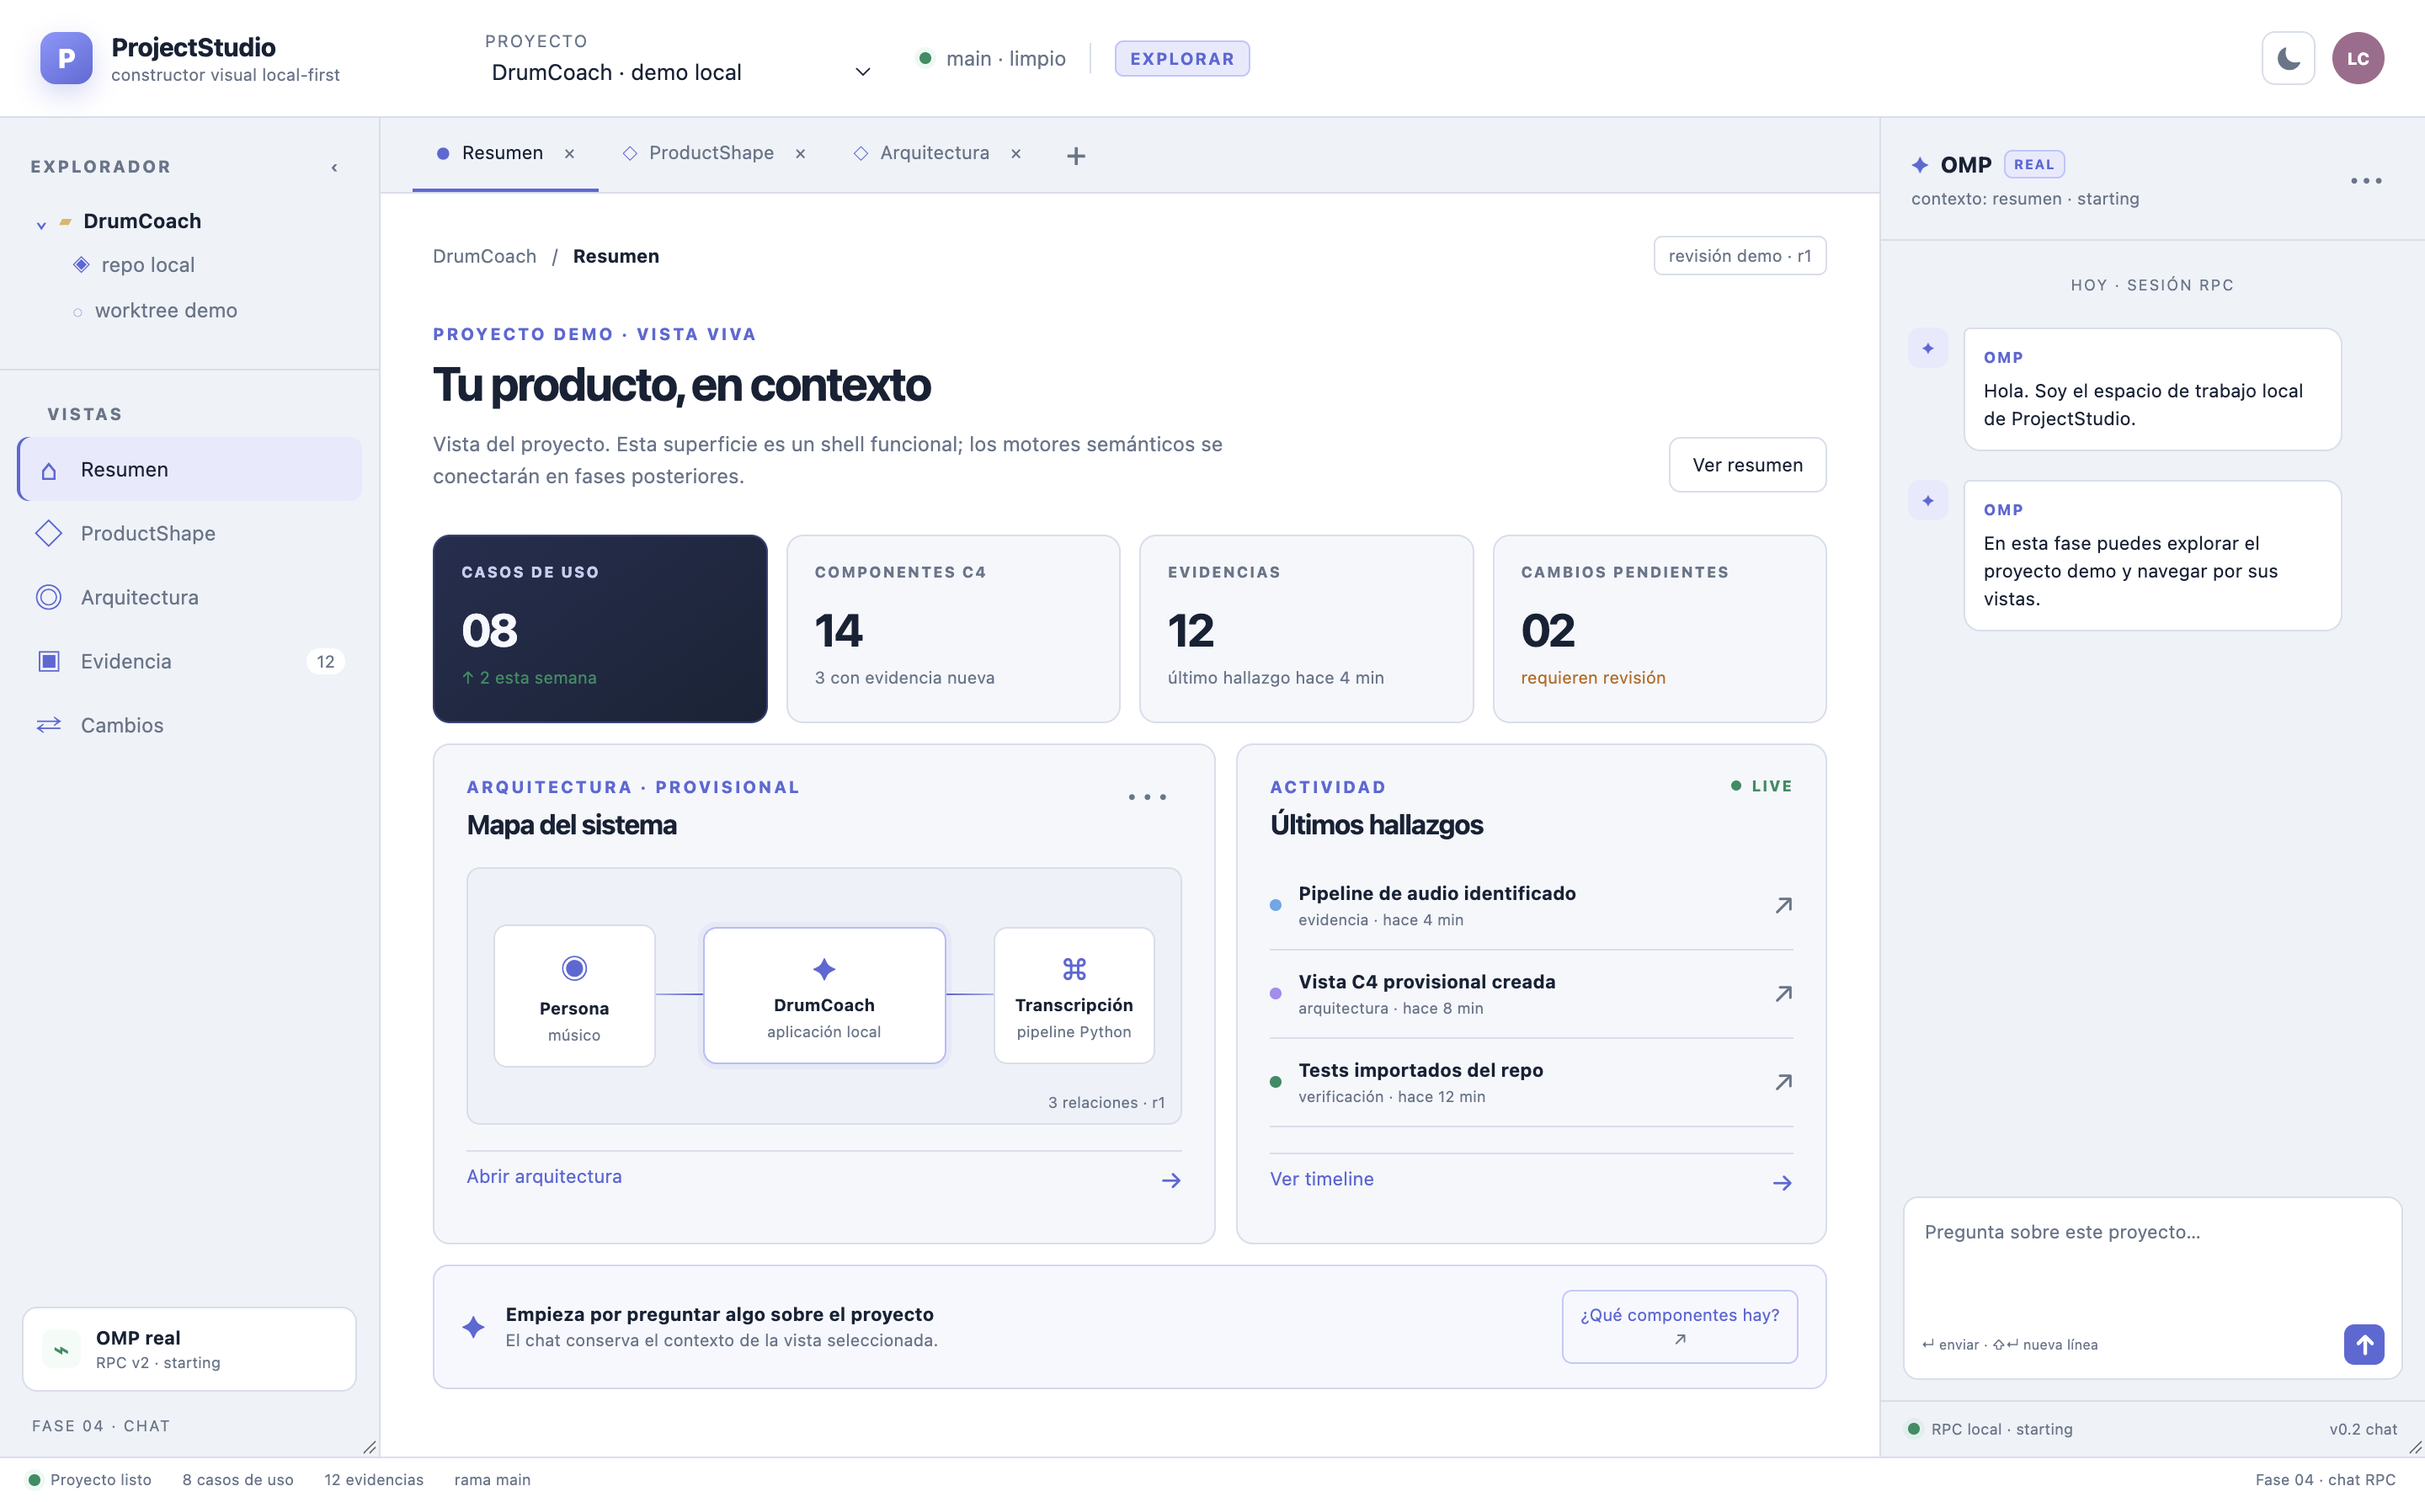
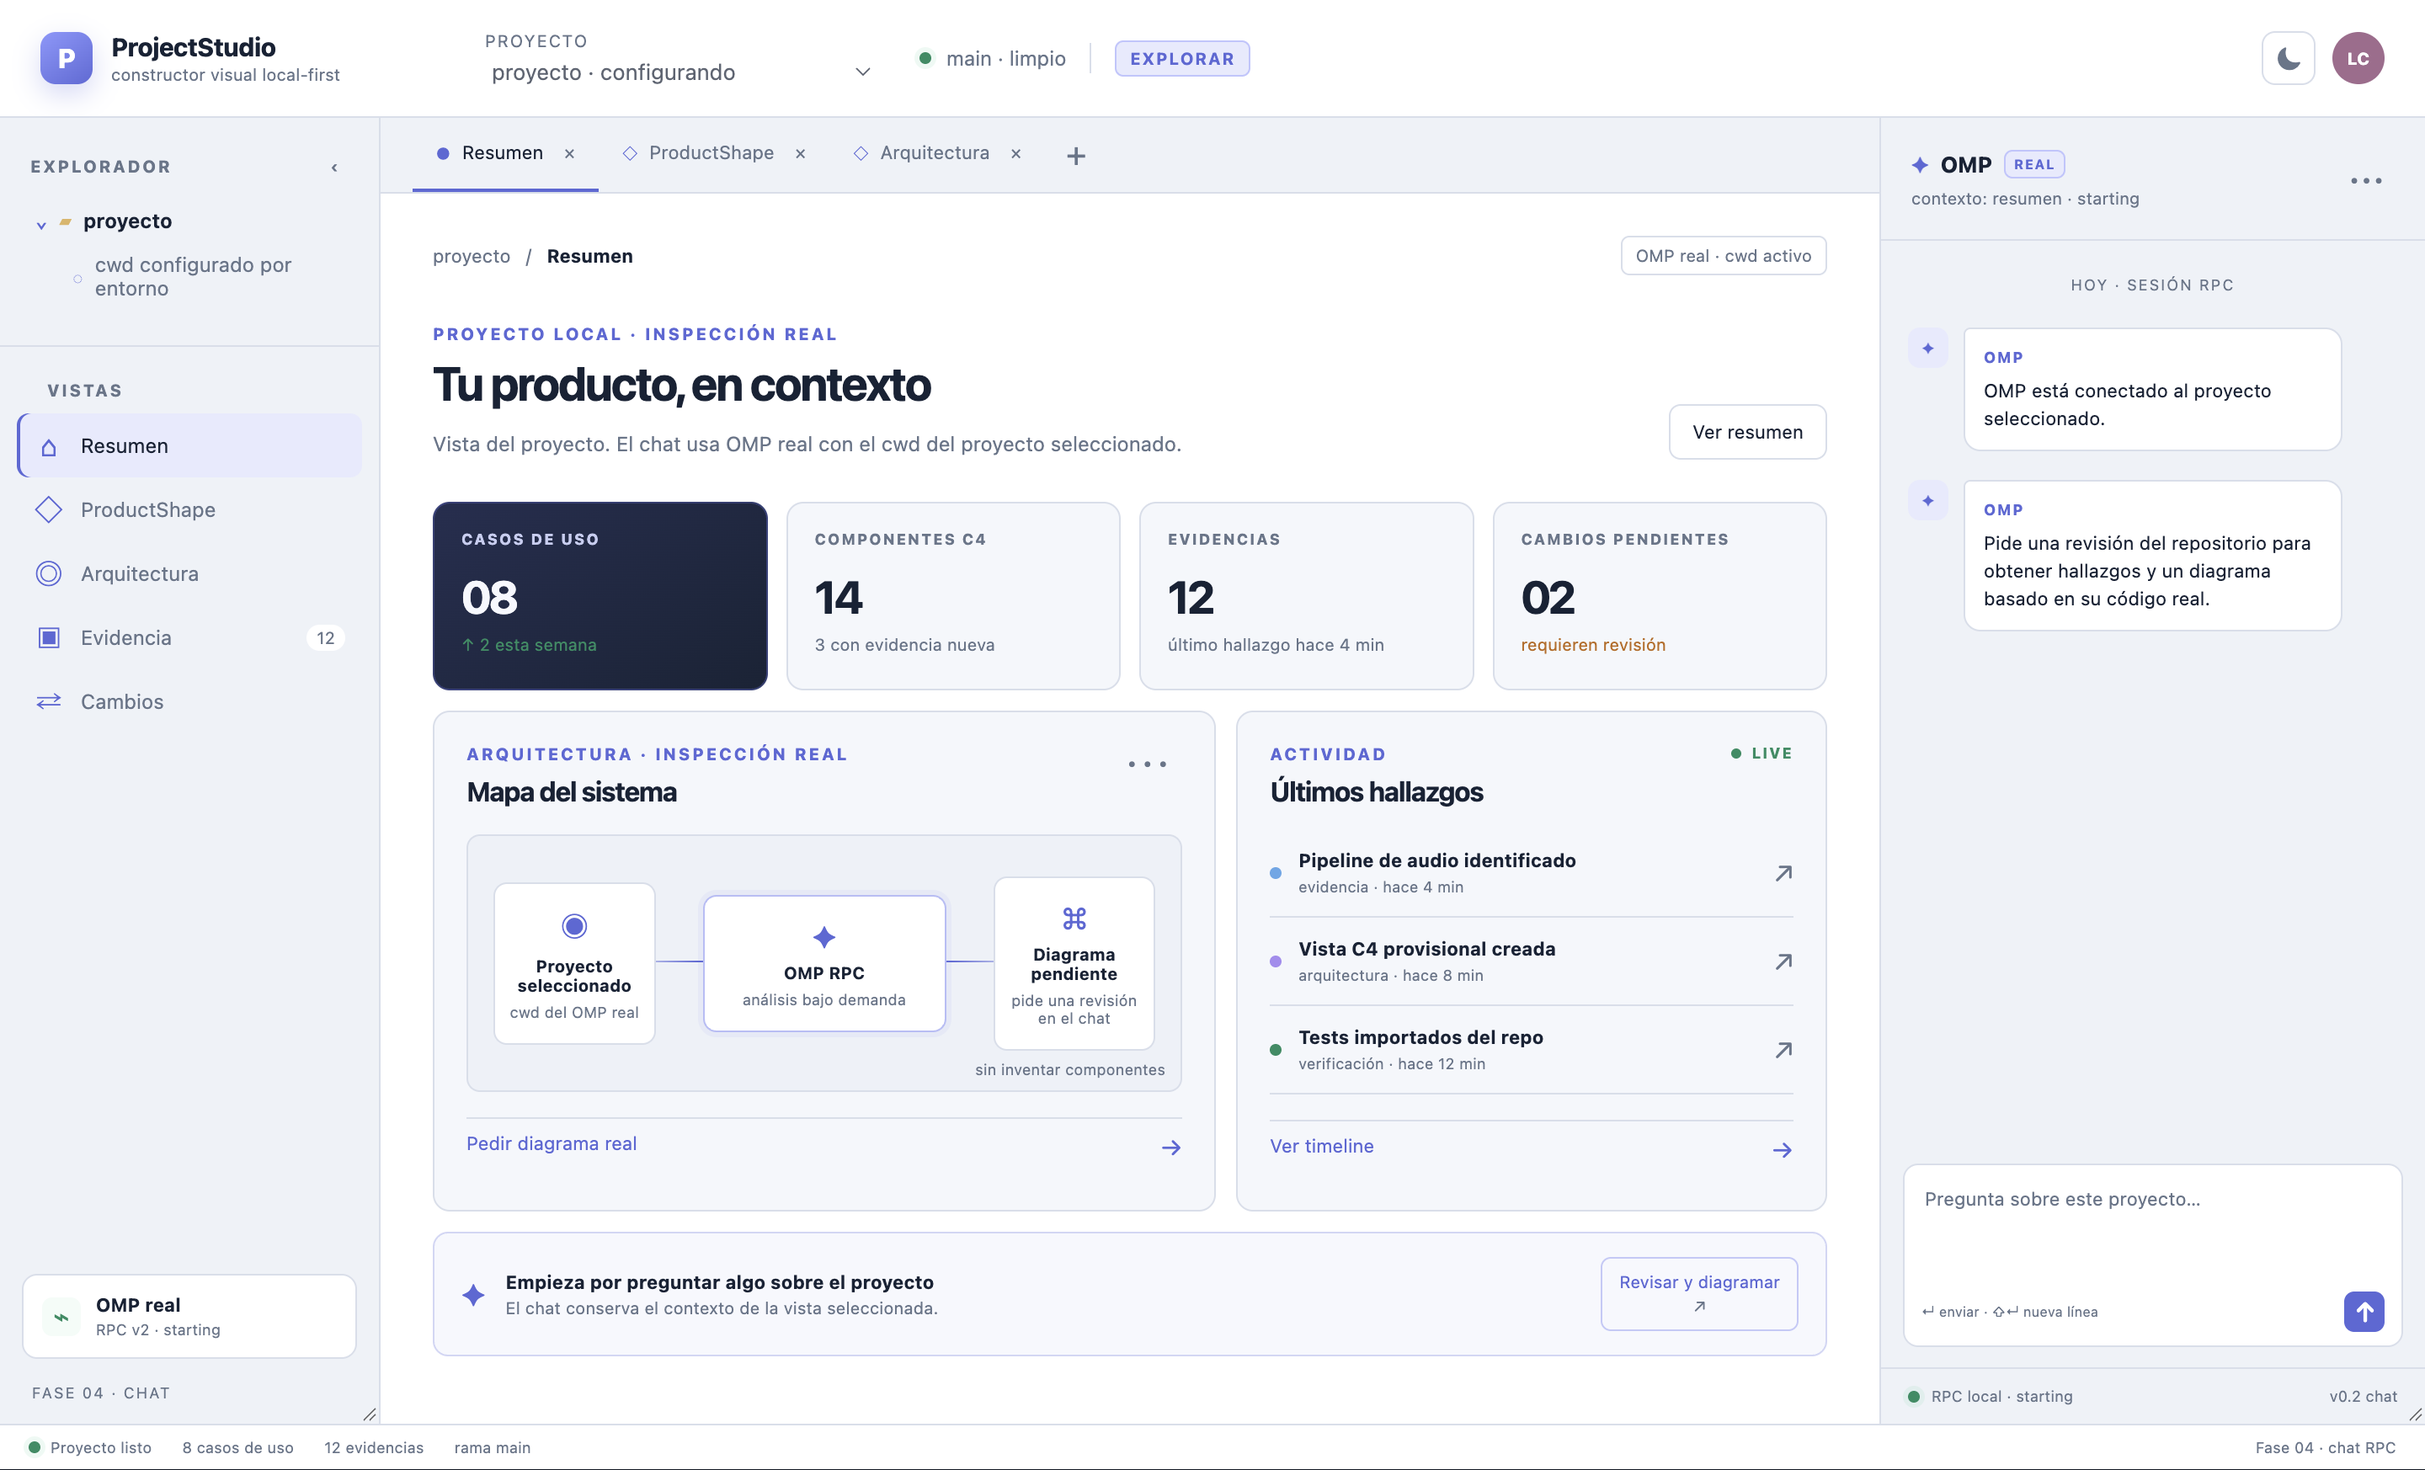
docs: record real chat evidence and project cwd

diff --git a/tests/e2e/desktop-smoke.ts b/tests/e2e/desktop-smoke.ts
@@ -28,7 +28,8 @@ try {
   await window.getByRole("heading", { name: "Arquitectura" }).waitFor();
   await window.getByLabel("Mensaje para OMP").fill("Responde exclusivamente con OMP_REAL_OK y no uses herramientas.");
   await window.getByRole("button", { name: "Enviar mensaje" }).click();
-  await window.getByText("OMP_REAL_OK").waitFor({ timeout: 120_000 });
+  await window.locator(".message-row.omp").filter({ hasText: "OMP_REAL_OK" }).waitFor({ timeout: 120_000 });
+  await window.waitForFunction(() => document.querySelector(".chat-footer")?.textContent?.includes("settled"), undefined, { timeout: 120_000 });
   await window.screenshot({ path: resolve(evidenceDirectory, "F04-T03-desktop-chat-real.png"), fullPage: true });
 
   const result = {

diff --git a/docs/implementation/phase-04-evidence.md b/docs/implementation/phase-04-evidence.md
@@ -22,8 +22,9 @@ React renderer
 | F04-T01 | done | `apps/desktop/src/main.ts`, `apps/desktop/preload.cjs` | IPC aislado y sesión OMP por proceso |
 | F04-T02 | done | `apps/desktop/src/renderer/main.tsx` | streaming, respuesta final, estado y errores visibles |
 | F04-T03 | done | `apps/desktop/src/renderer/renderer.d.ts` | eventos tipados en el renderer |
-| F04-T04 | done | `tests/e2e/desktop-smoke.ts` | mensaje real enviado y `OMP_REAL_OK` recibido |
+| F04-T04 | done | `tests/e2e/desktop-smoke.ts` | mensaje real enviado, respuesta OMP real y estado `settled` |
 | F04-T05 | done | capturas PNG | dark/light y respuesta real visible |
+| F04-T06 | done | `apps/desktop/src/main.ts`, README | `PROJECTSTUDIO_PROJECT_ROOT` fija cwd y nombre del repositorio |
 
 ## Comando reproducible
 

diff --git a/docs/implementation/STATUS.md b/docs/implementation/STATUS.md
@@ -23,7 +23,7 @@ El usuario autorizó continuar sin pausas entre gates. Fase 04 queda implementad
 | F04-T03 | done | tipos/estilos | `renderer.d.ts`, `styles.css` |
 | F04-T04 | done | integración | renderer → IPC → OmpAdapter → RPC → renderer |
 | F04-T05 | done | evidencia | `F04-T01-desktop-chat-*.png`, `F04-T03-desktop-chat-real.png` |
-
+| F04-T06 | done | selección de repo | `PROJECTSTUDIO_PROJECT_ROOT` controla el cwd real de OMP |
 ## Flujo funcionando
 
 ```text
